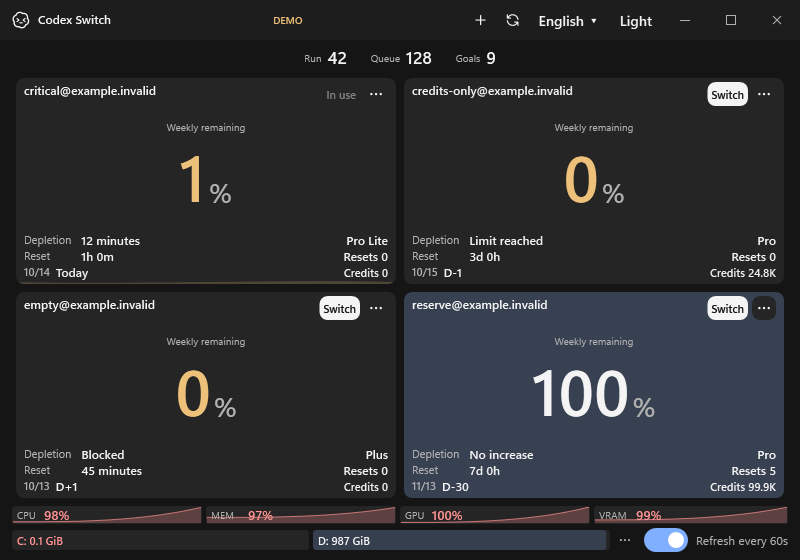
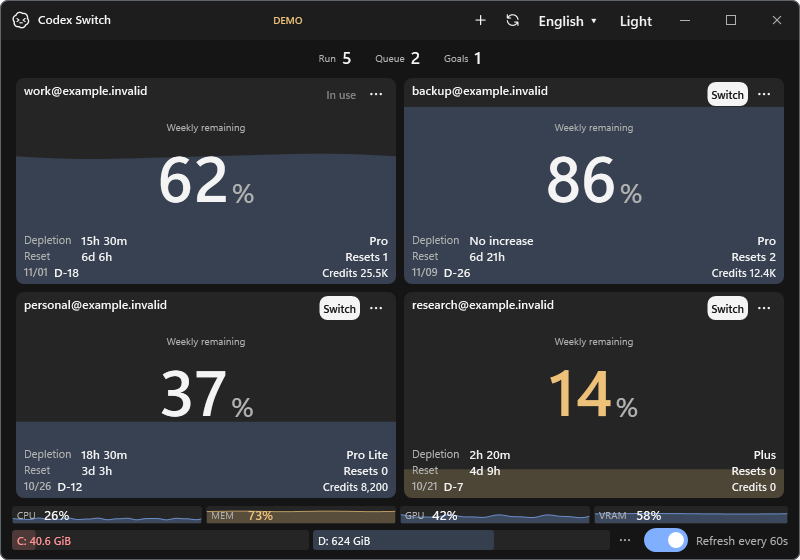
docs: show rounded everyday demo with varied account balances

diff --git a/scripts/render-demo.py b/scripts/render-demo.py
@@ -40,6 +40,7 @@ using System.Windows;
 using System.Windows.Controls;
 using System.Windows.Media;
 using System.Windows.Media.Imaging;
+using System.Windows.Shell;
 
 namespace CodexAccountDesk;
 internal static class DemoRenderer
@@ -56,28 +57,32 @@ internal static class DemoRenderer
         Loc.SetLanguage("en"); var now = DateTimeOffset.UtcNow;
         var vault = new AccountVault(Path.Combine(fixture, "data"));
         vault.Data.Language = "en"; vault.Data.Theme = "dark";
-        vault.Data.Accounts.Add(Profile("critical", "pro_lite", 99, 0, "0", 2, 1, now, false));
-        vault.Data.Accounts.Add(Profile("credits-only", "pro", 100, 0, "24800", 24, 72, now, false));
-        vault.Data.Accounts.Add(Profile("empty", "plus", 100, 0, "0", -24, 0.75, now, true));
-        vault.Data.Accounts.Add(Profile("reserve", "pro", 0, 5, "99900", 720, 168, now, false));
+        vault.Data.Accounts.Add(Profile("work", "pro", 38, 1, "25500", 432, 150, 4, now));
+        vault.Data.Accounts.Add(Profile("personal", "pro_lite", 63, 0, "8200", 288, 75, 2, now));
+        vault.Data.Accounts.Add(Profile("research", "plus", 86, 0, "0", 168, 105, 6, now));
+        vault.Data.Accounts.Add(Profile("backup", "pro", 14, 2, "12400", 624, 165, 0, now));
         var service = new AccountService(vault, Path.Combine(fixture, "home"));
-        typeof(AccountService).GetProperty(nameof(AccountService.CurrentKey))!.SetValue(service, "critical");
+        typeof(AccountService).GetProperty(nameof(AccountService.CurrentKey))!.SetValue(service, "work");
         var window = new MainWindow(service, new Program.Options { DataDirectory = vault.DirectoryPath,
             CodexHome = service.CodexHome, ReportPath = Path.Combine(fixture, "unused.json") }) { Width = 800, Height = 560 };
         typeof(MainWindow).GetField("_ready", Private)!.SetValue(window, true);
         Call(window, "RenderAccounts"); Call(window, "UpdateControls");
         var theme = new Burn0Theme(true);
-        Field<SessionUsagePanel>(window, "_sessionCount").Refresh(new SessionActivity(true, 42, 0, 42, Queued: 128, Goals: 9), theme);
+        Field<SessionUsagePanel>(window, "_sessionCount").Refresh(new SessionActivity(true, 5, 0, 5, Queued: 2, Goals: 1), theme);
         var history = Enumerable.Range(0, 61).Select(i =>
         {
-            var rise = Math.Pow(i / 60d, 3);
-            return new HardwareObservation(now.AddSeconds((i - 60) * 2), 8 + 90 * rise, 35 + 62 * rise, 4 + 96 * rise, 20 + 79 * rise);
+            var t = i - 60;
+            return new HardwareObservation(now.AddSeconds(t * 2),
+                26 + 4 * Math.Sin(t * 0.7) + 2 * Math.Sin(t * 1.3),
+                73 + 1.6 * Math.Sin(t * 0.22),
+                42 + 7 * Math.Sin(t * 0.39) + 3 * Math.Sin(t * 0.81),
+                58 + 1.4 * Math.Sin(t * 0.11));
         }).ToArray();
         Field<HardwareUsagePanel>(window, "_hardwarePanel").Refresh(new HardwareUsage(now,
-            new(98), new(97), new(100), new(99), Array.Empty<GpuResource>(), 0, history), theme);
+            new(26), new(73), new(42), new(58), Array.Empty<GpuResource>(), 0, history), theme);
         const long gib = 1073741824;
         Field<DriveUsagePanel>(window, "_drivePanel").Refresh(new[] {
-            new DriveReading("C:\\", "C:", gib / 10, 1000 * gib), new DriveReading("D:\\", "D:", 987 * gib, 1000 * gib) }, theme);
+            new DriveReading("C:\\", "C:", (long)(40.6 * gib), 512 * gib), new DriveReading("D:\\", "D:", 624 * gib, 1024 * gib) }, theme);
         var root = (Grid)window.Content;
         window.Content = null; root.Background = theme.Color("canvas"); root.Resources = window.Resources;
         System.Windows.Documents.TextElement.SetFontFamily(root, theme.Font);
@@ -88,30 +93,41 @@ internal static class DemoRenderer
         var size = new Size(800, 560);
         root.Measure(size); root.Arrange(new Rect(size)); root.UpdateLayout(); Call(window, "LayoutCards");
         root.Measure(size); root.Arrange(new Rect(size)); root.UpdateLayout();
-        var bitmap = new RenderTargetBitmap(800, 560, 96, 96, PixelFormats.Pbgra32); bitmap.Render(root);
+        var radius = WindowChrome.GetWindowChrome(window).CornerRadius.TopLeft;
+        var frame = new DrawingVisual();
+        using (var drawing = frame.RenderOpen())
+        {
+            drawing.PushClip(new RectangleGeometry(new Rect(size), radius, radius));
+            drawing.DrawRectangle(new VisualBrush(root), null, new Rect(size)); drawing.Pop();
+            var edge = new Pen(new SolidColorBrush((Color)ColorConverter.ConvertFromString("#60656C")), 1);
+            drawing.DrawRoundedRectangle(null, edge, new Rect(0.5, 0.5, size.Width - 1, size.Height - 1), radius - 0.5, radius - 0.5);
+        }
+        var bitmap = new RenderTargetBitmap(800, 560, 96, 96, PixelFormats.Pbgra32); bitmap.Render(frame);
         var encoder = new PngBitmapEncoder(); encoder.Frames.Add(BitmapFrame.Create(bitmap));
         Directory.CreateDirectory(Path.GetDirectoryName(output)!);
         using (var stream = File.Create(output)) encoder.Save(stream);
         var receipt = new { kind = "fictional documentation demo", actualUiSource = "MainWindow and current resource/account components",
             renderedAtUtc = now, width = 800, height = 560, profiles = vault.Data.Accounts.Select(a => new { a.Email, a.Plan,
                 remaining = a.Usage!.LeastRemaining, credits = a.Usage.Buckets[0].CreditBalance, resets = a.Usage.AvailableResets }),
-            running = 42, queued = 128, goals = 9, cpu = 98, memory = 97, gpu = 100, vram = 99,
+            scene = "everyday mixed status", cornerRadius = radius, edgePixels = 1,
+            resourceHistory = "bounded independent fluctuations over two minutes",
+            running = 5, queued = 2, goals = 1, cpu = 26, memory = 73, gpu = 42, vram = 58,
             liveAccountAccess = false, nativeCodexStarted = false, liveTaskInjection = false };
         File.WriteAllText(Path.Combine(Path.GetDirectoryName(output)!, "demo.json"), JsonSerializer.Serialize(receipt, new JsonSerializerOptions { WriteIndented = true }));
         window.Close(); app.Shutdown(); return 0;
     }
     private static AccountProfile Profile(string id, string plan, double used, int resets, string credits,
-        double subscriptionHours, double resetHours, DateTimeOffset now, bool blocked)
+        double subscriptionHours, double resetHours, double ratePerHour, DateTimeOffset now)
     {
         var deadline = now.AddHours(resetHours).ToUnixTimeSeconds();
         var window = new UsageWindow { UsedPercent = used, Minutes = 10080, ResetsAt = deadline };
         var profile = new AccountProfile { Key = id, Email = id + "@example.invalid", AccountId = "demo-" + id, Plan = plan,
             SubscriptionActiveUntil = now.AddHours(subscriptionHours), Usage = new UsageSnapshot { CheckedAt = now,
-                AvailableResets = resets, OrdinaryUsageAllowed = !blocked, Buckets = new() {
+                AvailableResets = resets, OrdinaryUsageAllowed = true, Buckets = new() {
                     new UsageBucket { Id = "codex", Label = "Codex", Plan = plan, Secondary = window, CreditBalance = credits } } } };
         var track = new UsageTrack { BucketId = "codex", Slot = "secondary", Minutes = 10080 };
         for (var i = 0; i <= 60; i++) track.Points.Add(new(now.AddMinutes(i - 60),
-            id == "critical" ? used - (60 - i) / 12d : used, deadline, 0));
+            used - (60 - i) * ratePerHour / 60, deadline, 0));
         profile.History.Add(track); return profile;
     }
 }'''

diff --git a/docs/media/README.md b/docs/media/README.md
@@ -2,10 +2,16 @@
 
 `demo.png` is the only documentation image: one 800×560 static PNG, rendered from the current Windows UI by `python scripts/render-demo.py`.
 
-The visible **DEMO** label and reserved `example.invalid` addresses identify fictional data. The recipe deliberately combines 1%, 0% and 100% quota, exhausted reset rights, remaining credits, an expired subscription, 42 running / 128 queued / 9 goal counts, 97–100% resource load and an almost-full drive.
+The visible **DEMO** label and reserved `example.invalid` addresses identify fictional everyday data.
 
-The 12-minute forecast is calculated by the actual usage predictor from synthetic history. No real accounts, authentication, live tasks or native Codex process are used. Resource warnings are simulated, not generated by stressing the machine.
+- Four distinct balances: work 62%, backup 86%, personal 37%, research 14%.
+- Ordinary activity: 5 running chats, 2 queued messages and 1 goal.
+- Resources: CPU 26%, MEM 73%, GPU 42%, VRAM 58%. Each graph fluctuates independently within a small bounded range over two minutes.
+- Status colors come from the existing controls: normal blue, low quota/memory caution yellow, low drive free space red.
+- The transparent outer corners use the window's 8px radius and a thin 1px gray edge.
 
-`demo.json` records the inputs/source/date. The image has no private identities or image text/EXIF metadata. Re-render it when the UI changes. Do not treat this image as real account-switch, performance or Mac acceptance evidence.
+Forecasts are calculated by the actual usage predictor from synthetic history. No real accounts, authentication, live tasks or native Codex process are used. Resource values are simulated rather than produced by stressing the machine.
 
-Older GIFs, size variants and duplicate posters were removed from the current tree.
+`demo.json` records the scene/source/date. The PNG has no private identities or image text/EXIF metadata. Re-render when the UI changes; this illustration is separate from account-switch, performance or Mac acceptance evidence.
+
+Older GIFs, size variants and duplicate posters remain removed from the current tree.

diff --git a/PLAN.md b/PLAN.md
@@ -1,12 +1,20 @@
 # Current plan
 
+## Everyday demo revision
+
+- [x] Use four distinct balances and ordinary activity/resource readings, with independent stable resource fluctuations.
+- [x] Capture the window's 8px corner shape and thin outer edge in the single PNG.
+- [x] Inspect the image, corner alpha, captions and links; synchronize the private repository.
+
+The four exported corner pixels are transparent, the outer edge stays opaque, and all four balances differ. The single PNG/4-language captions match the ordinary mixed-status scene. Product behavior and live accounts remain unchanged.
+
 ## Documentation cleanup
 
 - [x] Condense four-language getting-started pages and separate installation/development details.
-- [x] Render one clearly labeled fictional demo from the current Windows components, including extreme quotas/resources and a calculated forecast.
+- [x] Render one clearly labeled everyday fictional demo from current Windows components with different balances, stable resource variation and calculated forecasts.
 - [x] Remove old GIFs, size variants and redundant local captures; retain recovery archives and useful receipts.
 - [x] Verify image/links, summarize current status and synchronize the approved private repository changes.
 
-Complete: one 800×560 demo PNG (72,703 bytes), 22 Markdown pages / 78 local links checked, no stale media links or private image metadata. Removed 1,516obsolete media/capture files totaling 212,937,189bytes. Prior Git history/recovery archives and one useful current live reference remain. No product behavior or real account state changed.
+Complete: one 800×560 demo PNG (73,560 bytes), 22 Markdown pages / 78 local links checked, no stale media links or private image metadata. Removed 1,516 obsolete media/capture files totaling 212,937,189 bytes. Prior Git history/recovery archives and one useful current live reference remain. No product behavior or real account state changed.
 
 The canonical repository is codex-switch. Earlier plans and completed task history are available in Git history; remaining native acceptance is in BACKLOG.md.

diff --git a/STATUS.md b/STATUS.md
@@ -12,10 +12,10 @@ Updated 2026-10-14. Source/app version **1.27.6**.
 ## Documentation cleanup
 
 - Four-language quick-start pages now share one static, labeled fictional demo; installation and developer details have separate focused pages.
-- The demo is rendered from current Windows components with 1%, 0%, 100% quota,42 running / 128 queued / 9 goals, resource load 97–100% and an almost-full drive.
-- Its 12-minute quota forecast comes from the actual predictor using synthetic history. This is illustrative data, not real workload/account-switch evidence.
-- Replaced 18,183,140bytes of GIF/poster media with one 72,703-byte PNG. Removed 1,516obsolete local media/capture files totaling 212,937,189bytes; recovery archives/receipts and one current live reference remain.
-- Verified 22Markdown documents and 78local links, one 800×560 static PNG with only sRGB/gamma/DPI metadata, fictional identities and no live account/task inputs. Private verification/cleanup receipts stay ignored.
+- The current demo shows everyday fictional usage: four different balances (62%, 86%, 37%, 14%), 5 running / 2 queued / 1 goal, and independently fluctuating resources (26%, 73%, 42%, 58%). The window's 8px rounded corners and thin gray edge are included in the PNG.
+- Existing blue/yellow/red states distinguish normal usage, low quota/memory caution and low drive free space. Forecasts use the actual predictor with synthetic history. The illustration is separate from live workload/account-switch evidence.
+- Replaced 18,183,140 bytes of GIF/poster media with one 73,560-byte PNG. Removed 1,516 obsolete local media/capture files totaling 212,937,189 bytes; recovery archives/receipts and one current live reference remain.
+- Verified 22 Markdown documents and 78 local links, one 800×560 static PNG with only sRGB/gamma/DPI metadata, fictional identities and no live account/task inputs. Private verification/cleanup receipts stay ignored.
 - No product behavior or real account/native Codex state is changed by this documentation work.
 
 ## Still separate

diff --git a/OPERATIONS.md b/OPERATIONS.md
@@ -6,7 +6,7 @@
 - Source/app version: **1.27.6**. Public distribution, automatic updates and CI release publication are paused.
 - Previous codex-account-desk local/GitHub repositories were removed. Recovery material is described in [REPOSITORY.md](REPOSITORY.md).
 - Last product verification: Windows internal checks 93/93, disposable SQLite/WAL 23/23, Windows publish and Mac compilation. Native Mac/account acceptance remains in [BACKLOG.md](BACKLOG.md).
-- Documentation uses one fictional static demo, not live account or switching evidence. [Recipe](docs/media/README.md)
+- Documentation uses one fictional everyday static demo with the window's rounded frame, different balances, stable resource graphs and existing status colors. It is separate from live account/switching evidence. [Recipe](docs/media/README.md)
 
 ## Build and verify
 

diff --git a/README.md b/README.md
@@ -4,9 +4,9 @@ Switch Codex accounts and see what is left before you choose the next one. **Win
 
 [English](README.md) / [한국어](docs/README.ko.md) / [日本語](docs/README.ja.md) / [简体中文](docs/README.zh-CN.md)
 
-![Fictional demo: nearly empty and full quotas, credits, busy chats and resource warnings](docs/media/demo.png)
+![Fictional everyday demo: varied balances, stable resources and status colors](docs/media/demo.png)
 
-*Demo data: fictional accounts, 0–100% quota, 42 running chats, 128 queued messages and 97–100% resource load. These are simulated readings, rendered with the current Windows UI.*
+*Fictional everyday data: different account balances, gentle resource fluctuations and normal/caution states. Rendered with the current Windows UI and rounded window frame.*
 
 ## Get started
 

diff --git a/docs/README.ko.md b/docs/README.ko.md
@@ -4,9 +4,9 @@ Codex 계정을 빠르게 전환하고, 다음 계정의 남은 사용량을 한
 
 [English](../README.md) / 한국어 / [日本語](README.ja.md) / [简体中文](README.zh-CN.md)
 
-![잔량 0~100%, 크레딧과 자원 과부하를 보여주는 가상 데모](media/demo.png)
+![서로 다른 잔량과 완만한 자원 변화, 상태 색을 보여주는 가상 데모](media/demo.png)
 
-*가상 계정과 수치로 만든 데모입니다. 잔량 0~100%, 실행 42개, 큐 128개, 자원 사용률 97~100%를 현재 Windows UI로 렌더했습니다.*
+*가상 데이터로 연출한 평소 사용 예시입니다. 서로 다른 잔량과 작은 자원 변동, 정상/주의 상태를 현재 Windows UI와 둥근 창 외곽으로 보여줍니다.*
 
 ## 바로 시작
 

diff --git a/docs/README.zh-CN.md b/docs/README.zh-CN.md
@@ -4,9 +4,9 @@
 
 [English](../README.md) / [한국어](README.ko.md) / [日本語](README.ja.md) / 简体中文
 
-![展示0～100%额度、积分和资源警告的虚构演示](media/demo.png)
+![展示不同余额、平稳资源变化和状态颜色的日常虚构演示](media/demo.png)
 
-*虚构账号和模拟数据：剩余额度0～100%、运行42项、队列128项、资源负载97～100%。画面使用当前Windows UI渲染。*
+*虚构数据呈现的日常使用示例：不同账号余额、平缓的资源变化以及正常/注意状态，使用当前Windows UI和圆角窗口外框渲染。*
 
 ## 开始使用
 
